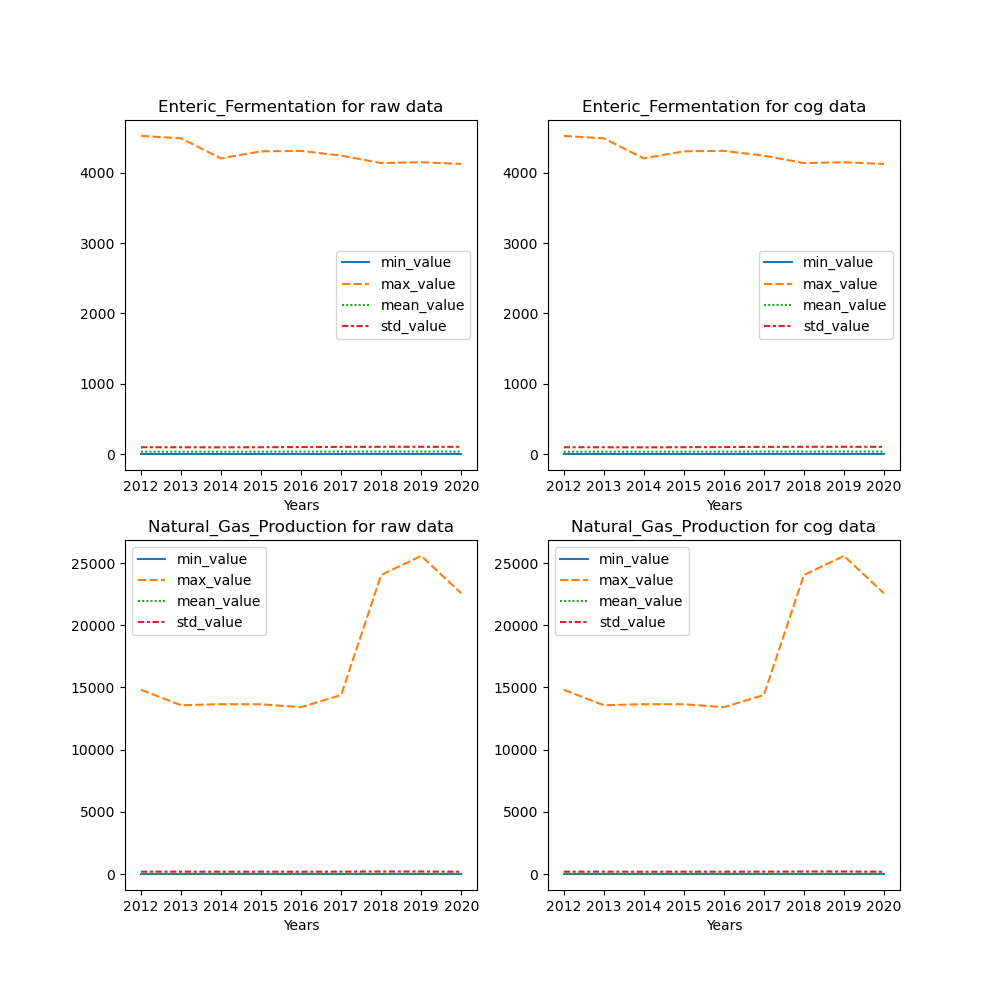
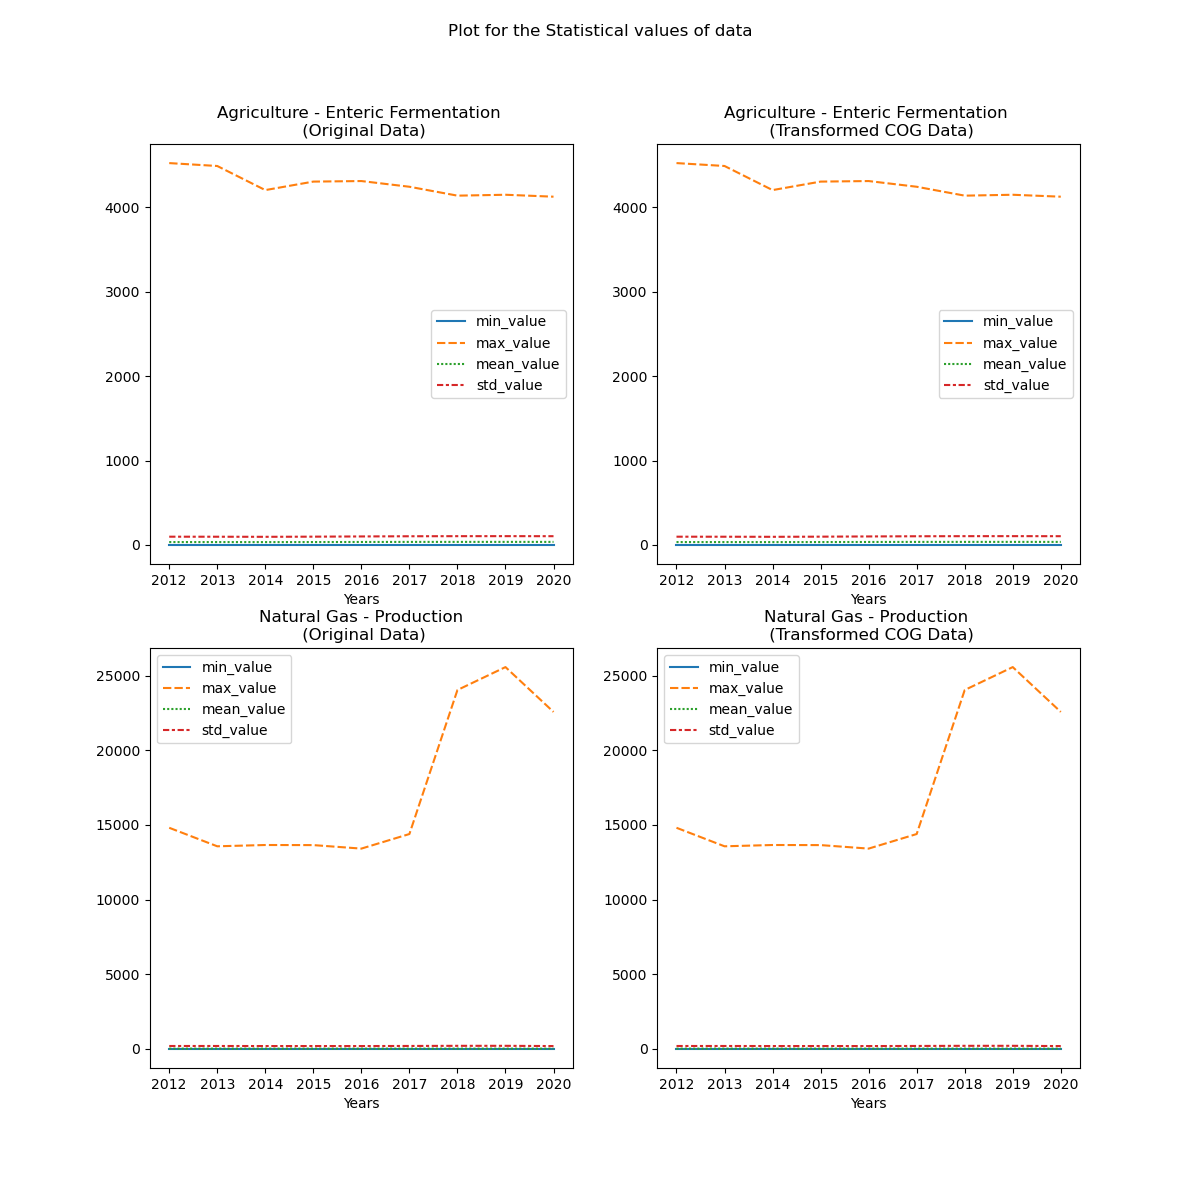
generated new and updated statistics for EPA and TM5 flux dataset

diff --git a/generating_statistics_for_validation/epa-gridded/epa-gridded-generate-statistics.py b/generating_statistics_for_validation/epa-gridded/epa-gridded-generate-statistics.py
@@ -187,41 +187,46 @@ with open("overall_stats.json", "w") as fp:
     json.dump(overall_stats_cog, fp)
 
 
-fig, ax = plt.subplots(2, 2, figsize=(10, 10))
-# plt.Figure(figsize=(10, 10))
+fig, ax = plt.subplots(2, 2, figsize=(13, 11))
 temp_df = pd.DataFrame()
 for key_value in full_data_df_netcdf.index.values:
     if key_value[0].startswith("emi_ch4_3A_Enteric_Fermentation"):
         temp_df = temp_df._append(full_data_df_netcdf.loc[key_value])
+temp_df = temp_df.to_numpy().flatten()
 sns.histplot(data=temp_df, kde=False, bins=10, legend=False, ax=ax[0][0])
-ax[0][0].set_title("overall raw data for agriculture enteric fermentation")
+ax[0][0].set_title("Agriculture - Enteric Fermentation \n (Original Data)")
 
 temp_df = pd.DataFrame()
 for key_value in full_data_df_cog.index.values:
     if key_value[0].startswith("emi_ch4_3A_Enteric_Fermentation"):
         temp_df = temp_df._append(full_data_df_cog.loc[key_value])
+temp_df = temp_df.to_numpy().flatten()
 sns.histplot(data=temp_df, kde=False, bins=10, legend=False, ax=ax[0][1])
-ax[0][1].set_title("overall cog data for agriculture enteric fermentation")
+ax[0][1].set_title("Agriculture - Enteric Fermentation \n (Transformed COG Data)")
 
 temp_df = pd.DataFrame()
 for key_value in full_data_df_netcdf.index.values:
     if key_value[0].startswith("emi_ch4_1B2b_Natural_Gas_Production"):
         temp_df = temp_df._append(full_data_df_netcdf.loc[key_value])
+temp_df = temp_df.to_numpy().flatten()
 sns.histplot(data=temp_df, kde=False, bins=10, legend=False, ax=ax[1][0])
-ax[1][0].set_title("overall raw data for natural gas production")
+ax[1][0].set_title("Natural Gas-Production \n (Original Data)")
 
 temp_df = pd.DataFrame()
 for key_value in full_data_df_cog.index.values:
     if key_value[0].startswith("emi_ch4_1B2b_Natural_Gas_Production"):
         temp_df = temp_df._append(full_data_df_cog.loc[key_value])
+temp_df = temp_df.to_numpy().flatten()
 sns.histplot(data=temp_df, kde=False, bins=10, legend=False, ax=ax[1][1])
-ax[1][1].set_title("overall cog data for natural gas production")
+ax[1][1].set_title("Natural Gas-Production \n (Transformed COG data)")
 
+fig.tight_layout(pad=1)
+fig.suptitle("Overall distribution of data", fontsize=12)
 plt.savefig("overall_stats_summary.png")
 plt.show()
 
 x_label = ["2012", "2013", "2014", "2015", "2016", "2017", "2018", "2019", "2020"]
-fig, ax = plt.subplots(2, 2, figsize=(10, 10))
+fig, ax = plt.subplots(2, 2, figsize=(12, 12))
 temp_df1, temp_df2 = pd.DataFrame(), pd.DataFrame()
 for key_value in summary_dict_netcdf.keys():
     if key_value.startswith("emi_ch4_3A_Enteric_Fermentation"):
@@ -235,14 +240,14 @@ sns.lineplot(
     data=temp_df1,
     ax=ax[0][0],
 )
-ax[0][0].set_title("Enteric_Fermentation for raw data")
+ax[0][0].set_title("Agriculture - Enteric Fermentation \n (Original Data)")
 ax[0][0].set_xlabel("Years")
 
 sns.lineplot(
     data=temp_df2,
     ax=ax[0][1],
 )
-ax[0][1].set_title("Enteric_Fermentation for cog data")
+ax[0][1].set_title("Agriculture - Enteric Fermentation \n (Transformed COG Data)")
 ax[0][1].set_xlabel("Years")
 
 temp_df = pd.DataFrame()
@@ -256,7 +261,7 @@ sns.lineplot(
     data=temp_df,
     ax=ax[1][0],
 )
-ax[1][0].set_title("Natural_Gas_Production for raw data")
+ax[1][0].set_title("Natural Gas - Production\n (Original Data)")
 ax[1][0].set_xlabel("Years")
 
 temp_df = pd.DataFrame()
@@ -269,8 +274,9 @@ sns.lineplot(
     data=temp_df,
     ax=ax[1][1],
 )
-ax[1][1].set_title("Natural_Gas_Production for cog data")
+ax[1][1].set_title("Natural Gas - Production \n (Transformed COG Data)")
 ax[1][1].set_xlabel("Years")
 
+fig.suptitle("Plot for the Statistical values of data", fontsize=12)
 plt.savefig("Yearly_stats_summary.png")
 plt.show()

diff --git a/generating_statistics_for_validation/casa-gfed/casa-gfed-generate-statistics.py b/generating_statistics_for_validation/casa-gfed/casa-gfed-generate-statistics.py
@@ -62,7 +62,7 @@ summary_dict_netcdf, summary_dict_cog = {}, {}
 overall_stats_netcdf, overall_stats_cog = {}, {}
 full_data_df_netcdf, full_data_df_cog = pd.DataFrame(), pd.DataFrame()
 
-for key in keys:
+for key in keys[:1]:
     with raster_io_session:
         s3_file = s3_client_veda_smce.generate_presigned_url(
             "get_object", Params={"Bucket": bucket_name, "Key": key}
@@ -140,7 +140,7 @@ for tif_file in tif_files:
             std_value = np.float64(temp.values.std())
 
             summary_dict_netcdf[
-                f"{var}_{'_'.join(file_name[1:])}_{calendar.month_name[time_increment+1]}"
+                f"{'_'.join(file_name[1:])}_{var}_{calendar.month_name[time_increment+1]}"
             ] = {
                 "min_value": min_value,
                 "max_value": max_value,
@@ -186,7 +186,7 @@ fig, ax = plt.subplots(2, 2, figsize=(10, 10))
 # plt.Figure(figsize=(10, 10))
 temp_df = pd.DataFrame()
 for key_value in full_data_df_netcdf.index.values:
-    if "2003" in key_value[1]:
+    if "NPP" in key_value[0] and "2003" in key_value[1]:
         temp_df = temp_df._append(full_data_df_netcdf.loc[key_value])
 sns.histplot(data=temp_df, kde=False, bins=10, legend=False, ax=ax[0][0])
 ax[0][0].set_title("distribution plot for overall raw data")
